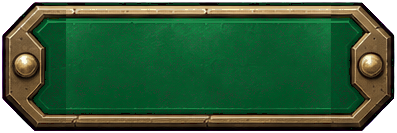
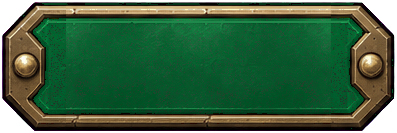
Без тёмных полос: края поля кнопок выровнены, nine-patch по частям без захвата рамки, карточка находки в профиле по своему размеру

diff --git a/CLAUDE.md b/CLAUDE.md
@@ -59,6 +59,7 @@
 - Экран загрузки (`screens/boot.gd`): анимация камня из файла, прогрев шейдеров, фоновая загрузка.
 
 ## Что дальше
+- 19.11 (`fixes`), **тёмные полосы на кнопках и карточках** (скрин с iPhone: Edit — полосы слева и справа, карточка находки — справа и снизу): (1) на зелёной (рубиновой, сланцевой) кнопке края зелёного поля в самой картинке были темнее середины — выровнены по середине (исходники до правки — `art/ui_kit/pre_stripes/`); (2) `KitBox` рисует девять частей сам (`_nine`), каждая со своей областью картинки и `clip_uv` — серверный nine-patch с плиткой середины брал соседние пиксели рамки (тёмный контур) на краях плиток при дробном масштабе; (3) в карточке лучшей находки профиля свечение и камень растягиваются на настоящий размер карточки (`inner.resized`). До/после — `art/kit_stripes_ba.png`. Полосы рамок видны только на телефоне (3 px на pt) — на iPhone не проверено.
 - 19.11 (`fixes`), **вибрация — своим переключателем; светлячки на встряску**: в настройках кнопка «Vibration: on/off» (`Save.d.no_buzz`; `Sfx.buzz` больше не молчит от выключенного звука — отдельный переключатель). Системные настройки телефона игра прочитать не может (iOS их не отдаёт), но iOS сама глушит вибрацию приложений при выключенной «Вибрации» в Универсальном доступе и в режиме энергосбережения. Рой светлячков (`SpecSkullFx.Swarm.jolt`) при встряске разлетается от центра и вспыхивает разом. На iPhone не проверено.
 - 19.11 (`fixes`), **телефон как предмет**: (1) пузырёк энгидро всплывает туда, куда наклонён телефон — `Enhydro.world_up`: «вверх» = против `Input.get_gravity()`, переведённого в оси камеры карточки (на ПК датчика нет — верх студии, как было); пружина и отставание при повороте — те же. В `project.godot` включены `sensors/enable_accelerometer`, `enable_gravity`. (2) Встряхнул — посыпалось: `SpecView._process` ловит рывок (ускорение без силы тяжести > `SHAKE_G` 13 м/с², не чаще раза в секунду), `shake_find(k)`: камень вздрагивает, вибрация, с верхней части камня сыплется мягкая пыль (`CPUParticles3D`, круглые полупрозрачные пылинки), сидящие бабочки взлетают, летящих отбрасывает, крошки у основания побитой находки подпрыгивают (мета `crumb`), пузырёк энгидро бултыхается (`Enhydro.jolt`). Ключ витрины `shake=S`. Кадры — `art/shake_find.png`. Светлячки (рой черепа) не реагируют. **На iPhone не проверено ничего** — порог встряски и знак осей наклона подобраны вслепую.
 - 19.11 (`fixes`), **энгидро не бывает в тёмных кристаллах и с фантомом** (по просьбе, скрин: тёмный кристалл с плашкой энгидро): `SpecGenome` кладёт его в `lost` при блеске `dark` или признаке `phantom` — `Stones.roll` его не выдаёт, построитель не строит. Проверено витриной `tr=enhydro,phantom` (выросло только phantom). Ключ `enhydros` берёт только подходящие кристаллы.
